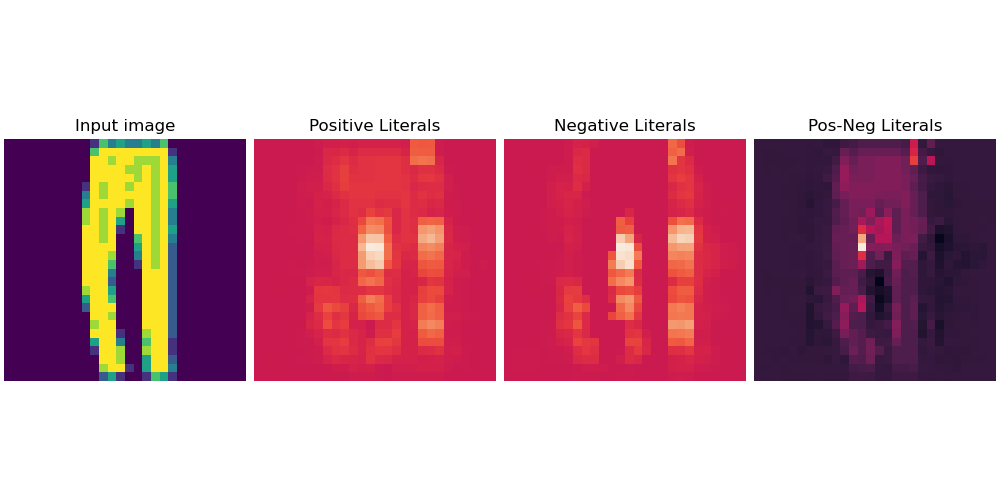
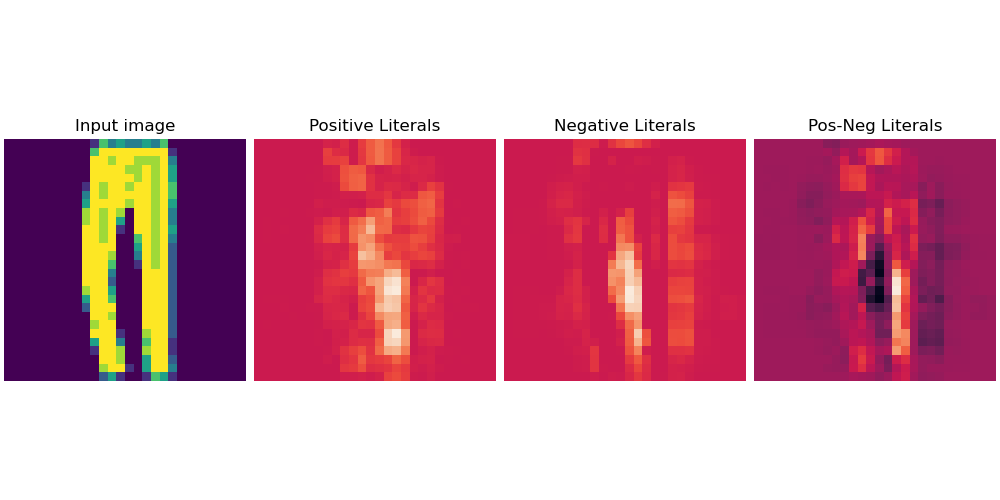
Update

diff --git a/FMNISTConvolutionDemo.py b/FMNISTConvolutionDemo.py
@@ -58,14 +58,14 @@ def unbinarize(a):
 
 def default_args(**kwargs):
     parser = argparse.ArgumentParser()
-    parser.add_argument("--epochs", default=50, type=int)
+    parser.add_argument("--epochs", default=25, type=int)
     parser.add_argument("--number-of-clauses", default=8000, type=int)
     parser.add_argument("--T", default=10000, type=int)
     parser.add_argument("--s", default=15.0, type=float)
     parser.add_argument("--number-of-state-bits", default=8, type=int)
     parser.add_argument("--depth", default=1, type=int)
-    parser.add_argument("--hypervector-size", default=64, type=int)
-    parser.add_argument("--hypervector-bits", default=4, type=int)
+    parser.add_argument("--hypervector-size", default=128, type=int)
+    parser.add_argument("--hypervector-bits", default=2, type=int)
     parser.add_argument("--message-size", default=512, type=int)
     parser.add_argument("--message-bits", default=2, type=int)
     parser.add_argument(
